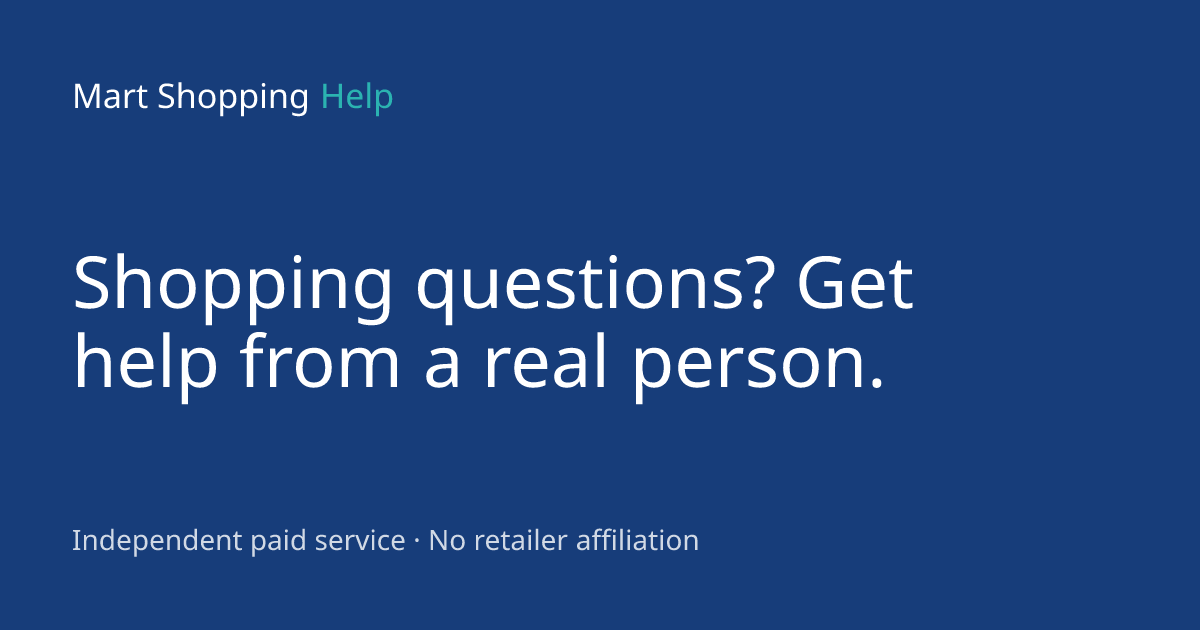
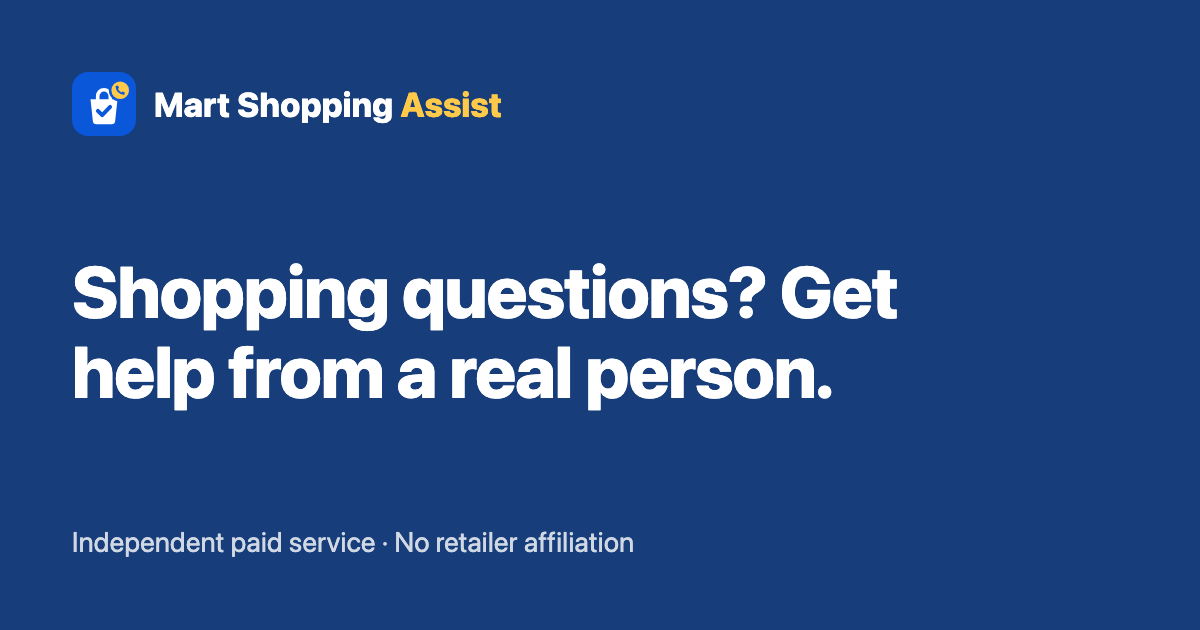
Rebrand to Mart Shopping Assist at martshoppingassist.online
Rename the brand in all copy, metadata, disclosures and the logo
wordmark, point site URL, canonical links, sitemap and CNAME at
martshoppingassist.online, regenerate the share image, and rename the
final logo files to msa-*.

Changed region(s): [[0.0617, 0.3921, 0.7708, 0.6635], [0.0617, 0.0905, 0.4317, 0.2413], [0.0617, 0.8444, 0.5858, 0.8746]]

diff --git a/brand/logo-final.html b/brand/logo-final.html
@@ -14,10 +14,10 @@
   .sw { display:inline-flex; align-items:center; gap:8px; margin-right:16px; font-size:.9rem; } .sw i { width:22px; height:22px; border-radius:6px; display:inline-block; border:1px solid #DDE3EA; }
 </style></head>
 <body><main>
-<h1>Mart Shopping Help — final logo</h1>
+<h1>Mart Shopping Assist: final logo</h1>
 <p class="lede">The first A1·3 call-badge design in primary #0A57DA, with standardized padding and clear space.</p>
 <section><h2>Lockup</h2>
-  <div class="row"><div class="pad"><span class="clear"><svg xmlns="http://www.w3.org/2000/svg" viewBox="0 0 342 64" width="342" height="64" role="img" aria-label="Mart Shopping Help">
+  <div class="row"><div class="pad"><span class="clear"><svg xmlns="http://www.w3.org/2000/svg" viewBox="0 0 342 64" width="342" height="64" role="img" aria-label="Mart Shopping Assist">
 <g transform="scale(1.6) translate(4 4)"><rect width="32" height="32" rx="8" fill="#0A57DA"/>
 <g transform="translate(16 16.8) scale(0.9) translate(-16 -16)">
 <path d="M8.5 12.5h15l-1.3 12a2 2 0 0 1-2 1.8h-8.4a2 2 0 0 1-2-1.8Z" fill="#FFFFFF"/>
@@ -26,10 +26,10 @@
 <circle cx="25" cy="7.5" r="5.6" fill="#FFC94A" stroke="#0A57DA" stroke-width="1.4"/>
 <g transform="translate(21.5 4) scale(0.29)"><path d="M5 3.5h3.2l1.6 4.2-2.1 1.3a11.5 11.5 0 0 0 7.3 7.3l1.3-2.1 4.2 1.6V19a1.8 1.8 0 0 1-1.9 1.8A16.6 16.6 0 0 1 3.2 5.4 1.8 1.8 0 0 1 5 3.5Z" fill="#0A57DA"/></g>
 </g></g>
-<text x="72" y="33" font-family="ui-sans-serif, system-ui, -apple-system, 'Segoe UI', Roboto, Arial, sans-serif" font-size="26" font-weight="800" letter-spacing="-0.5" fill="#173D7A">Mart Shopping <tspan fill="#0A57DA">Help</tspan></text>
+<text x="72" y="33" font-family="ui-sans-serif, system-ui, -apple-system, 'Segoe UI', Roboto, Arial, sans-serif" font-size="26" font-weight="800" letter-spacing="-0.5" fill="#173D7A">Mart Shopping <tspan fill="#0A57DA">Assist</tspan></text>
 <text x="72.5" y="50" font-family="ui-sans-serif, system-ui, -apple-system, 'Segoe UI', Roboto, Arial, sans-serif" font-size="10.4" font-weight="700" letter-spacing="1.65" fill="#4A5568">INDEPENDENT SHOPPING ASSISTANCE</text>
 </svg></span></div></div>
-  <div class="row"><div class="pad dark"><svg xmlns="http://www.w3.org/2000/svg" viewBox="0 0 342 64" width="342" height="64" role="img" aria-label="Mart Shopping Help">
+  <div class="row"><div class="pad dark"><svg xmlns="http://www.w3.org/2000/svg" viewBox="0 0 342 64" width="342" height="64" role="img" aria-label="Mart Shopping Assist">
 <g transform="scale(1.6) translate(4 4)"><rect width="32" height="32" rx="8" fill="#0A57DA"/>
 <g transform="translate(16 16.8) scale(0.9) translate(-16 -16)">
 <path d="M8.5 12.5h15l-1.3 12a2 2 0 0 1-2 1.8h-8.4a2 2 0 0 1-2-1.8Z" fill="#FFFFFF"/>
@@ -38,7 +38,7 @@
 <circle cx="25" cy="7.5" r="5.6" fill="#FFC94A" stroke="#0A57DA" stroke-width="1.4"/>
 <g transform="translate(21.5 4) scale(0.29)"><path d="M5 3.5h3.2l1.6 4.2-2.1 1.3a11.5 11.5 0 0 0 7.3 7.3l1.3-2.1 4.2 1.6V19a1.8 1.8 0 0 1-1.9 1.8A16.6 16.6 0 0 1 3.2 5.4 1.8 1.8 0 0 1 5 3.5Z" fill="#0A57DA"/></g>
 </g></g>
-<text x="72" y="33" font-family="ui-sans-serif, system-ui, -apple-system, 'Segoe UI', Roboto, Arial, sans-serif" font-size="26" font-weight="800" letter-spacing="-0.5" fill="#FFFFFF">Mart Shopping <tspan fill="#FFC94A">Help</tspan></text>
+<text x="72" y="33" font-family="ui-sans-serif, system-ui, -apple-system, 'Segoe UI', Roboto, Arial, sans-serif" font-size="26" font-weight="800" letter-spacing="-0.5" fill="#FFFFFF">Mart Shopping <tspan fill="#FFC94A">Assist</tspan></text>
 <text x="72.5" y="50" font-family="ui-sans-serif, system-ui, -apple-system, 'Segoe UI', Roboto, Arial, sans-serif" font-size="10.4" font-weight="700" letter-spacing="1.65" fill="rgba(255,255,255,0.75)">INDEPENDENT SHOPPING ASSISTANCE</text>
 </svg></div></div>
 </section>
@@ -65,28 +65,28 @@
     <li>Minimum clear space around the lockup: one badge diameter (dashed red box).</li>
   </ul></div>
 </section>
-<section><h2>Icon sizes</h2><div class="row"><svg xmlns="http://www.w3.org/2000/svg" viewBox="-4 -4 40 40" width="128" height="128" role="img" aria-label="Mart Shopping Help"><rect width="32" height="32" rx="8" fill="#0A57DA"/>
+<section><h2>Icon sizes</h2><div class="row"><svg xmlns="http://www.w3.org/2000/svg" viewBox="-4 -4 40 40" width="128" height="128" role="img" aria-label="Mart Shopping Assist"><rect width="32" height="32" rx="8" fill="#0A57DA"/>
 <g transform="translate(16 16.8) scale(0.9) translate(-16 -16)">
 <path d="M8.5 12.5h15l-1.3 12a2 2 0 0 1-2 1.8h-8.4a2 2 0 0 1-2-1.8Z" fill="#FFFFFF"/>
 <path d="M12.5 12.5v-1.8a3.5 3.5 0 0 1 7 0v1.8" fill="none" stroke="#FFFFFF" stroke-width="2" stroke-linecap="round"/>
 <path d="m12.6 18.9 2.4 2.4 4.4-4.6" fill="none" stroke="#0A57DA" stroke-width="2.2" stroke-linecap="round" stroke-linejoin="round"/>
 <circle cx="25" cy="7.5" r="5.6" fill="#FFC94A" stroke="#0A57DA" stroke-width="1.4"/>
 <g transform="translate(21.5 4) scale(0.29)"><path d="M5 3.5h3.2l1.6 4.2-2.1 1.3a11.5 11.5 0 0 0 7.3 7.3l1.3-2.1 4.2 1.6V19a1.8 1.8 0 0 1-1.9 1.8A16.6 16.6 0 0 1 3.2 5.4 1.8 1.8 0 0 1 5 3.5Z" fill="#0A57DA"/></g>
-</g></svg><svg xmlns="http://www.w3.org/2000/svg" viewBox="-4 -4 40 40" width="64" height="64" role="img" aria-label="Mart Shopping Help"><rect width="32" height="32" rx="8" fill="#0A57DA"/>
+</g></svg><svg xmlns="http://www.w3.org/2000/svg" viewBox="-4 -4 40 40" width="64" height="64" role="img" aria-label="Mart Shopping Assist"><rect width="32" height="32" rx="8" fill="#0A57DA"/>
 <g transform="translate(16 16.8) scale(0.9) translate(-16 -16)">
 <path d="M8.5 12.5h15l-1.3 12a2 2 0 0 1-2 1.8h-8.4a2 2 0 0 1-2-1.8Z" fill="#FFFFFF"/>
 <path d="M12.5 12.5v-1.8a3.5 3.5 0 0 1 7 0v1.8" fill="none" stroke="#FFFFFF" stroke-width="2" stroke-linecap="round"/>
 <path d="m12.6 18.9 2.4 2.4 4.4-4.6" fill="none" stroke="#0A57DA" stroke-width="2.2" stroke-linecap="round" stroke-linejoin="round"/>
 <circle cx="25" cy="7.5" r="5.6" fill="#FFC94A" stroke="#0A57DA" stroke-width="1.4"/>
 <g transform="translate(21.5 4) scale(0.29)"><path d="M5 3.5h3.2l1.6 4.2-2.1 1.3a11.5 11.5 0 0 0 7.3 7.3l1.3-2.1 4.2 1.6V19a1.8 1.8 0 0 1-1.9 1.8A16.6 16.6 0 0 1 3.2 5.4 1.8 1.8 0 0 1 5 3.5Z" fill="#0A57DA"/></g>
-</g></svg><svg xmlns="http://www.w3.org/2000/svg" viewBox="-4 -4 40 40" width="32" height="32" role="img" aria-label="Mart Shopping Help"><rect width="32" height="32" rx="8" fill="#0A57DA"/>
+</g></svg><svg xmlns="http://www.w3.org/2000/svg" viewBox="-4 -4 40 40" width="32" height="32" role="img" aria-label="Mart Shopping Assist"><rect width="32" height="32" rx="8" fill="#0A57DA"/>
 <g transform="translate(16 16.8) scale(0.9) translate(-16 -16)">
 <path d="M8.5 12.5h15l-1.3 12a2 2 0 0 1-2 1.8h-8.4a2 2 0 0 1-2-1.8Z" fill="#FFFFFF"/>
 <path d="M12.5 12.5v-1.8a3.5 3.5 0 0 1 7 0v1.8" fill="none" stroke="#FFFFFF" stroke-width="2" stroke-linecap="round"/>
 <path d="m12.6 18.9 2.4 2.4 4.4-4.6" fill="none" stroke="#0A57DA" stroke-width="2.2" stroke-linecap="round" stroke-linejoin="round"/>
 <circle cx="25" cy="7.5" r="5.6" fill="#FFC94A" stroke="#0A57DA" stroke-width="1.4"/>
 <g transform="translate(21.5 4) scale(0.29)"><path d="M5 3.5h3.2l1.6 4.2-2.1 1.3a11.5 11.5 0 0 0 7.3 7.3l1.3-2.1 4.2 1.6V19a1.8 1.8 0 0 1-1.9 1.8A16.6 16.6 0 0 1 3.2 5.4 1.8 1.8 0 0 1 5 3.5Z" fill="#0A57DA"/></g>
-</g></svg><svg xmlns="http://www.w3.org/2000/svg" viewBox="-4 -4 40 40" width="16" height="16" role="img" aria-label="Mart Shopping Help"><rect width="32" height="32" rx="8" fill="#0A57DA"/>
+</g></svg><svg xmlns="http://www.w3.org/2000/svg" viewBox="-4 -4 40 40" width="16" height="16" role="img" aria-label="Mart Shopping Assist"><rect width="32" height="32" rx="8" fill="#0A57DA"/>
 <g transform="translate(16 16.8) scale(0.9) translate(-16 -16)">
 <path d="M8.5 12.5h15l-1.3 12a2 2 0 0 1-2 1.8h-8.4a2 2 0 0 1-2-1.8Z" fill="#FFFFFF"/>
 <path d="M12.5 12.5v-1.8a3.5 3.5 0 0 1 7 0v1.8" fill="none" stroke="#FFFFFF" stroke-width="2" stroke-linecap="round"/>

diff --git a/src/config/site.ts b/src/config/site.ts
@@ -7,8 +7,8 @@
  */
 
 export const site = {
-  name: "Mart Shopping Help",
-  url: "https://martshoppinghelp.online",
+  name: "Mart Shopping Assist",
+  url: "https://martshoppingassist.online",
   tagline: "Independent shopping assistance",
   description:
     "Independent, paid shopping assistance. Talk to a real person for help comparing products, finding the right items, and understanding your shopping options.",
@@ -27,7 +27,7 @@ export const site = {
   },
 
   // Optional details. Leave as null to hide them from the site.
-  email: null as string | null, // e.g. "help@martshoppinghelp.online"
+  email: null as string | null, // e.g. "help@martshoppingassist.online"
   hours: null as string | null, // e.g. "Mon–Fri, 9 a.m.–6 p.m. ET"
   legalName: null as string | null, // registered business name
   mailingAddress: null as string | null,
@@ -43,13 +43,13 @@ export const site = {
   /** "Website lead" conversion, sent when a visitor taps any call button or phone link. */
   googleAdsLeadConversion: "AW-18430161458/HCZ_CNzdu4kdELLkl9RE" as string | null,
 
-  lastUpdated: "2026-10-21",
+  lastUpdated: "2026-10-23",
 } as const;
 
 export const disclosures = {
   paid: "Personalized shopping assistance is a paid service. Ask about the scope and applicable price before agreeing to proceed.",
   independence:
-    "Mart Shopping Help is independent and is not affiliated with or endorsed by Walmart or any other retailer.",
+    "Mart Shopping Assist is independent and is not affiliated with or endorsed by Walmart or any other retailer.",
   short: "Independent paid service · No retailer affiliation",
   limits:
     "We cannot access retailer accounts, place or change orders, process returns or refunds, or handle payments on a retailer's behalf.",

diff --git a/src/components/Logo.tsx b/src/components/Logo.tsx
@@ -22,11 +22,11 @@ export function LogoMark({ className = "size-9" }: { className?: string }) {
 
 export function Logo({ inverted = false }: { inverted?: boolean }) {
   return (
-    <Link href="/" className="inline-flex shrink-0 items-center gap-2.5" aria-label="Mart Shopping Help home">
+    <Link href="/" className="inline-flex shrink-0 items-center gap-2.5" aria-label="Mart Shopping Assist home">
       <LogoMark />
       <span className="flex flex-col leading-none">
         <span className={`whitespace-nowrap text-lg font-extrabold tracking-tight ${inverted ? "text-white" : "text-navy"}`}>
-          Mart Shopping <span className={inverted ? "text-sun" : "text-action"}>Help</span>
+          Mart Shopping <span className={inverted ? "text-sun" : "text-action"}>Assist</span>
         </span>
         <span className={`mt-1 hidden text-[0.68rem] sm:block font-semibold uppercase tracking-[0.12em] ${inverted ? "text-white/70" : "text-muted"}`}>
           Independent shopping assistance

diff --git a/src/app/about/page.tsx b/src/app/about/page.tsx
@@ -7,7 +7,7 @@ import { pageMetadata } from "@/lib/metadata";
 export const metadata = pageMetadata({
   title: "About Us",
   description:
-    "Mart Shopping Help is an independent shopping-assistance service. We are not a retailer and are not affiliated with Walmart or any other store.",
+    "Mart Shopping Assist is an independent shopping-assistance service. We are not a retailer and are not affiliated with Walmart or any other store.",
   path: "/about",
 });
 
@@ -23,7 +23,7 @@ export default function AboutPage() {
     <>
       <PageHero eyebrow="About us" title="Independent help for everyday shopping decisions.">
         <p>
-          Mart Shopping Help exists for people who would rather talk a purchase through with someone than sort through endless
+          Mart Shopping Assist exists for people who would rather talk a purchase through with someone than sort through endless
           listings alone.
         </p>
       </PageHero>

diff --git a/src/content/faq.ts b/src/content/faq.ts
@@ -4,8 +4,8 @@ export type Faq = { q: string; a: string };
 
 export const faqs: Faq[] = [
   {
-    q: "What is Mart Shopping Help?",
-    a: "Mart Shopping Help is an independent, paid shopping-assistance service. You talk with a real person who helps you compare products, narrow down options, and think through what to consider before you buy. You make every purchase yourself.",
+    q: "What is Mart Shopping Assist?",
+    a: "Mart Shopping Assist is an independent, paid shopping-assistance service. You talk with a real person who helps you compare products, narrow down options, and think through what to consider before you buy. You make every purchase yourself.",
   },
   {
     q: "Are you Walmart or part of any retailer's customer service?",

diff --git a/src/app/how-it-works/page.tsx b/src/app/how-it-works/page.tsx
@@ -8,7 +8,7 @@ import { pageMetadata } from "@/lib/metadata";
 export const metadata = pageMetadata({
   title: "How It Works",
   description:
-    "Call, explain what you're shopping for, hear the scope and price, then get the guidance you agreed to. Here's what to expect from Mart Shopping Help.",
+    "Call, explain what you're shopping for, hear the scope and price, then get the guidance you agreed to. Here's what to expect from Mart Shopping Assist.",
   path: "/how-it-works",
 });
 

diff --git a/src/app/pricing/page.tsx b/src/app/pricing/page.tsx
@@ -8,7 +8,7 @@ import { pageMetadata } from "@/lib/metadata";
 export const metadata = pageMetadata({
   title: "Pricing & Service Fees",
   description:
-    "Mart Shopping Help is a paid service. Learn how fees are explained before you commit, what's included, and how to ask about scope and price.",
+    "Mart Shopping Assist is a paid service. Learn how fees are explained before you commit, what's included, and how to ask about scope and price.",
   path: "/pricing",
 });
 

diff --git a/src/app/faq/page.tsx b/src/app/faq/page.tsx
@@ -7,7 +7,7 @@ import { pageMetadata } from "@/lib/metadata";
 export const metadata = pageMetadata({
   title: "Frequently Asked Questions",
   description:
-    "Answers about Mart Shopping Help: what the paid service includes, how pricing works, what we can't do, and how we protect your information.",
+    "Answers about Mart Shopping Assist: what the paid service includes, how pricing works, what we can't do, and how we protect your information.",
   path: "/faq",
 });
 

diff --git a/src/app/terms/page.tsx b/src/app/terms/page.tsx
@@ -6,7 +6,7 @@ import { pageMetadata } from "@/lib/metadata";
 
 export const metadata = pageMetadata({
   title: "Terms of Service",
-  description: "The terms that govern Mart Shopping Help's independent, paid shopping-assistance service, including its scope and limitations.",
+  description: "The terms that govern Mart Shopping Assist's independent, paid shopping-assistance service, including its scope and limitations.",
   path: "/terms",
 });
 

diff --git a/next.config.ts b/next.config.ts
@@ -3,7 +3,7 @@ import { site } from "./src/config/site";
 
 if (site.prelaunch || site.phone.isPlaceholder) {
   console.warn(
-    "\n⚠  Mart Shopping Help is in prelaunch mode. Replace the placeholder phone number and " +
+    "\n⚠  Mart Shopping Assist is in prelaunch mode. Replace the placeholder phone number and " +
       "business details in src/config/site.ts and set `prelaunch: false` before deploying.\n",
   );
 }

diff --git a/src/app/contact/page.tsx b/src/app/contact/page.tsx
@@ -6,7 +6,7 @@ import { pageMetadata } from "@/lib/metadata";
 
 export const metadata = pageMetadata({
   title: "Contact",
-  description: "Contact Mart Shopping Help, an independent paid shopping-assistance service. Call to talk with a real person.",
+  description: "Contact Mart Shopping Assist, an independent paid shopping-assistance service. Call to talk with a real person.",
   path: "/contact",
 });
 

diff --git a/src/app/refund-policy/page.tsx b/src/app/refund-policy/page.tsx
@@ -4,7 +4,7 @@ import { pageMetadata } from "@/lib/metadata";
 
 export const metadata = pageMetadata({
   title: "Refund & Cancellation Policy",
-  description: "How cancellations and refunds work for fees paid to Mart Shopping Help for shopping assistance.",
+  description: "How cancellations and refunds work for fees paid to Mart Shopping Assist for shopping assistance.",
   path: "/refund-policy",
 });
 
